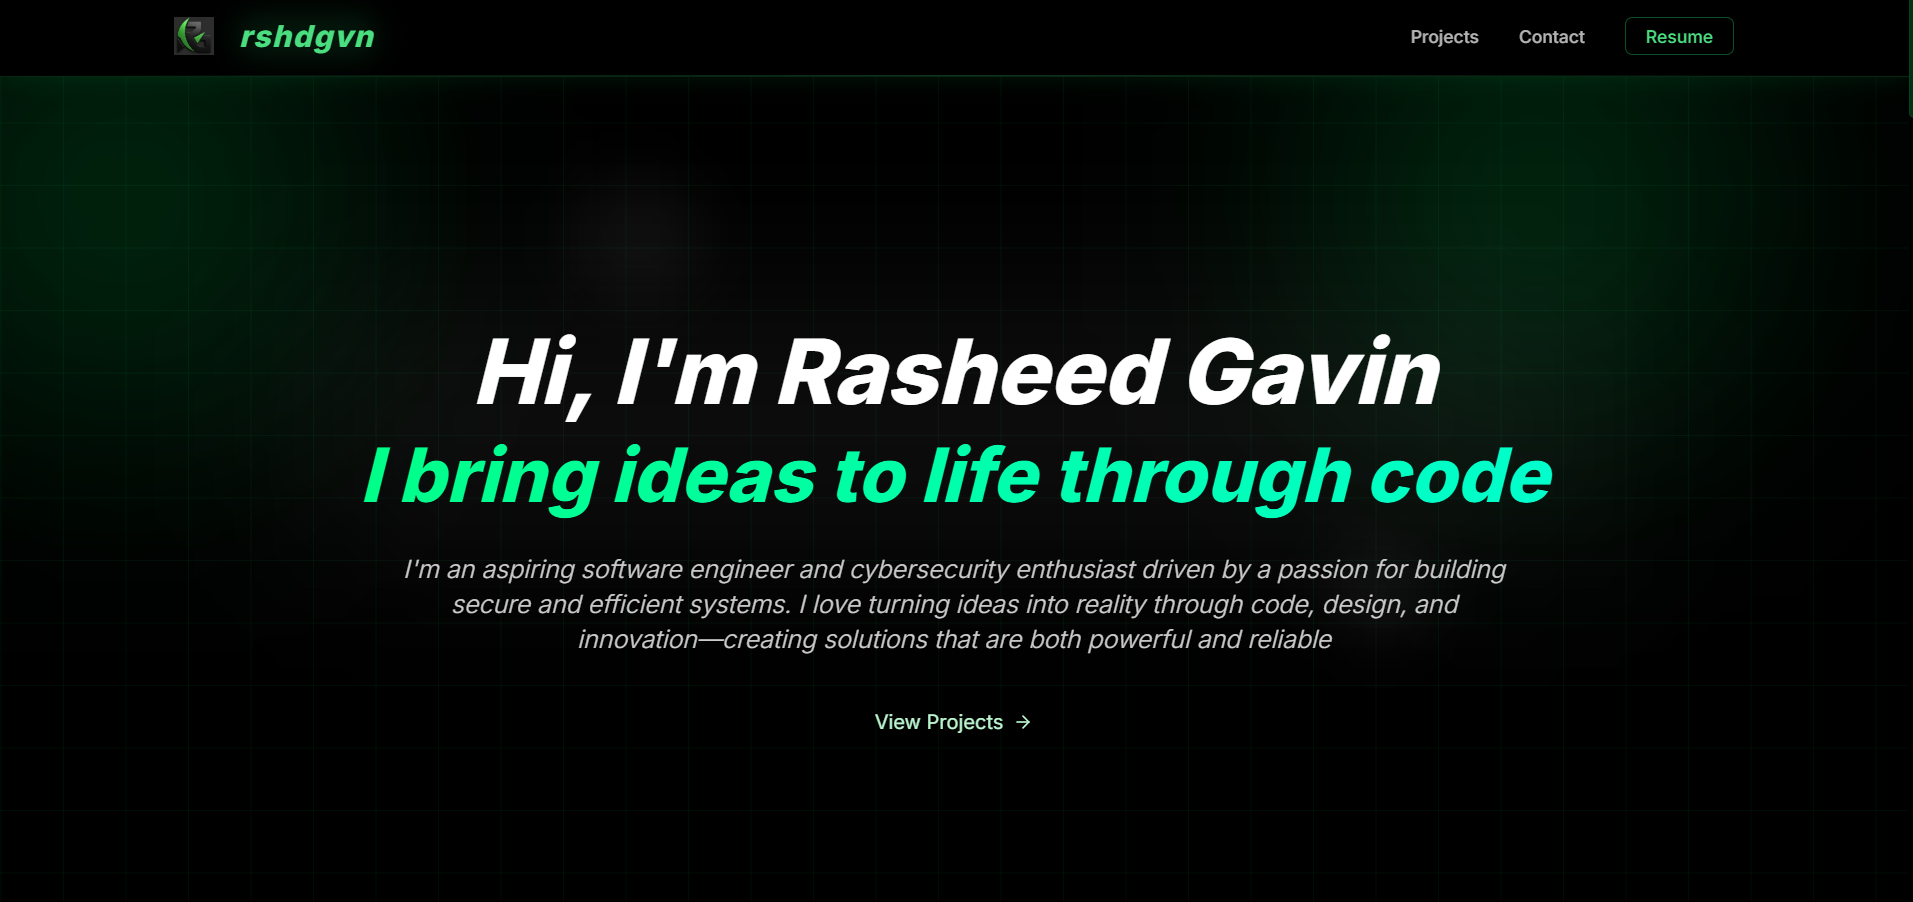
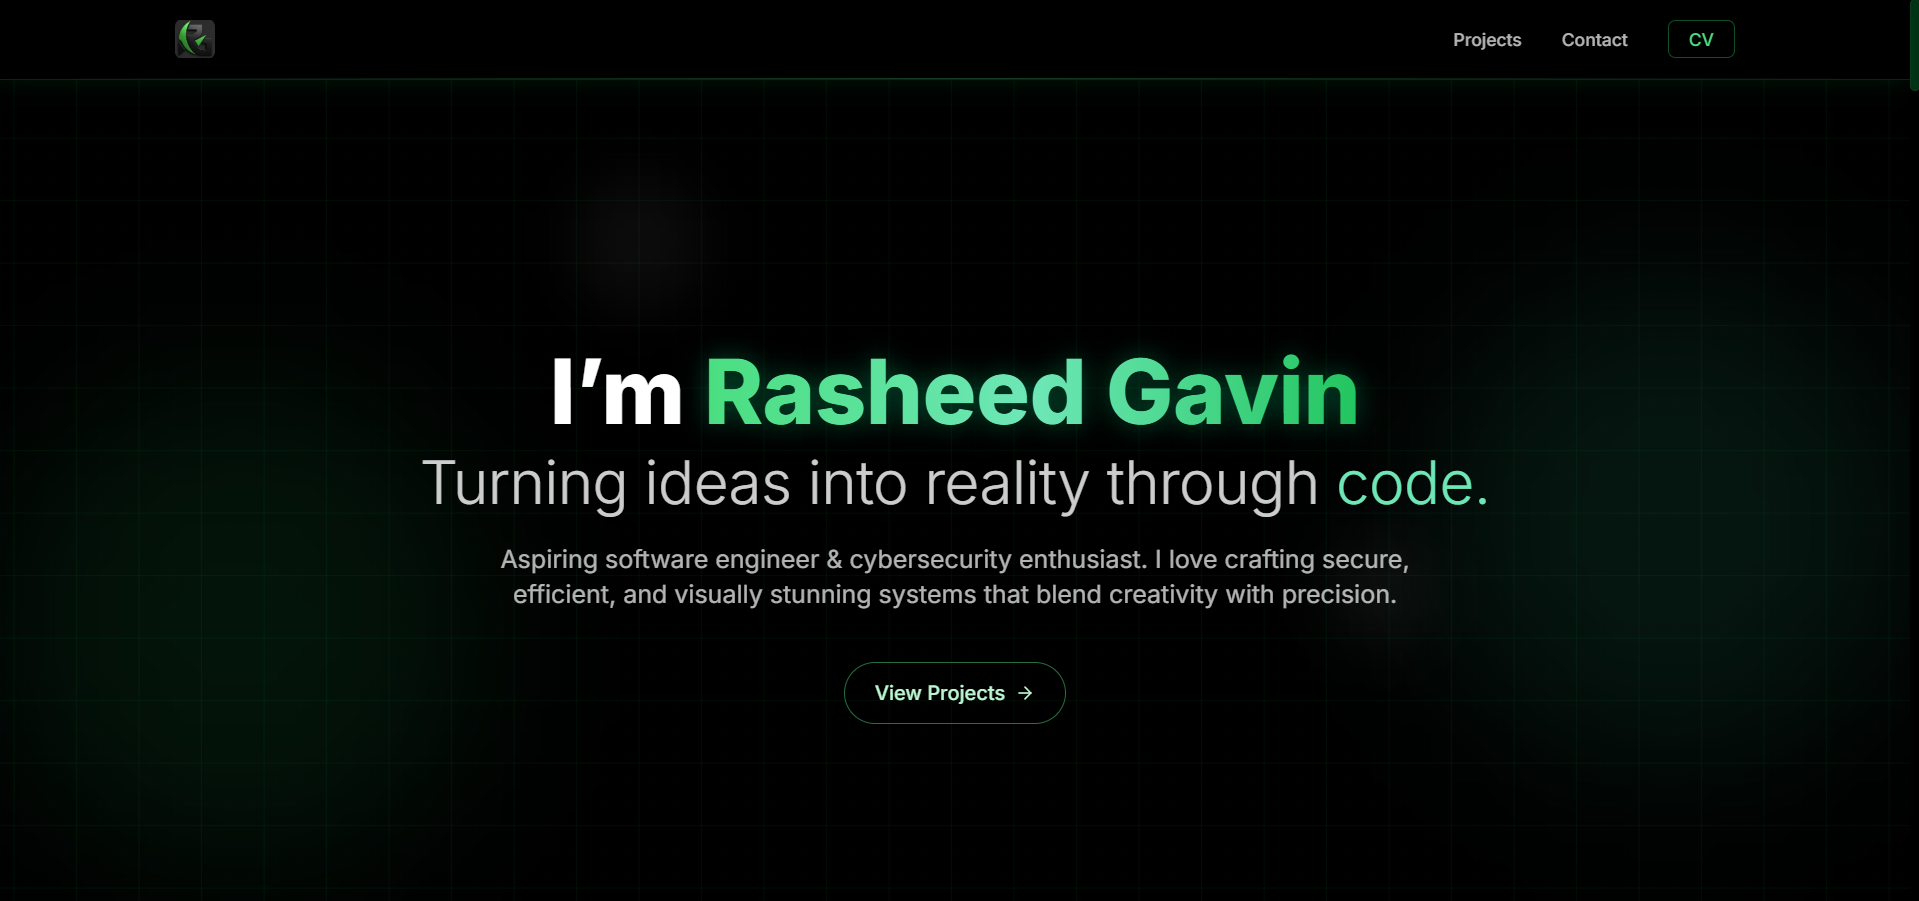
improve some UIs

diff --git a/src/components/HeroSection.jsx b/src/components/HeroSection.jsx
@@ -4,110 +4,75 @@ import { ArrowRight } from "lucide-react";
 
 const HeroSection = () => {
   const textVariants = {
-    hidden: { opacity: 0 },
+    hidden: { opacity: 0, y: 20 },
     visible: (i) => ({
       opacity: 1,
+      y: 0,
       transition: {
-        delay: i * 0.1,
-        duration: 0.8,  
+        delay: i * 0.15,
+        duration: 0.8,
         ease: "easeOut",
       },
     }),
   };
 
   return (
-    <section className="min-h-screen flex flex-col justify-center items-center text-center px-4 py-20 relative overflow-hidden">
-      {/* Premium corner light effects */}
-      <div className="corner-light-premium"></div>
-      <div
-        className="corner-light-premium"
-        style={{ right: 0, left: "auto", transform: "rotate(90deg)" }}
-      ></div>
+    <section className="min-h-screen flex flex-col justify-center px-6 md:px-12 py-24 relative overflow-hidden">
+      {/* Glow orbs */}
+      <div className="absolute top-1/3 left-0 w-96 h-96 bg-green-500/10 blur-3xl rounded-full" />
+      <div className="absolute bottom-1/4 right-0 w-96 h-96 bg-emerald-400/10 blur-3xl rounded-full" />
 
-      {/* Light rays */}
-      <div
-        className="light-ray-premium opacity-30"
-        style={{
-          top: "10%",
-          left: "-10%",
-          width: "80%",
-          transform: "rotate(25deg)",
-        }}
-      ></div>
-      <div
-        className="light-ray-premium opacity-20"
-        style={{
-          top: "30%",
-          left: "-5%",
-          width: "60%",
-          transform: "rotate(15deg)",
-        }}
-      ></div>
-      <div
-        className="light-ray-premium opacity-10"
-        style={{
-          top: "60%",
-          left: "-15%",
-          width: "70%",
-          transform: "rotate(-10deg)",
-        }}
-      ></div>
+      {/* Matrix lines background */}
+      <div className="absolute inset-0 opacity-10 bg-[linear-gradient(180deg,rgba(255,255,255,0.05)_1px,transparent_1px),linear-gradient(90deg,rgba(255,255,255,0.05)_1px,transparent_1px)] bg-[size:20px_20px]" />
 
-      {/* Central premium glow effect */}
-      <div className="absolute w-[800px] h-[800px] rounded-full bg-radial-glow-premium opacity-60 top-1/2 left-1/2 transform -translate-x-1/2 -translate-y-1/2 z-0 animate-glow-pulse"></div>
-
-      <div className="max-w-5xl mx-auto relative z-10">
+      <div className="max-w-5xl mx-auto text-center relative z-10">
         <motion.h1
-          className="hero-heading relative font-extrabold italic mb-6 leading-tight"
-          initial={{ opacity: 0, y: 20 }}
-          animate={{ opacity: 1, y: 0 }}
-          transition={{ duration: 0.8, ease: "easeOut" }}
+          className="font-extrabold leading-tight mb-6 tracking-tight"
+          initial="hidden"
+          animate="visible"
         >
-          <span className="absolute -inset-x-10 -inset-y-6 bg-white/5 rounded-3xl blur-3xl -z-10"></span>
-
           <motion.span
             className="block text-5xl md:text-7xl"
-            initial="hidden"
-            animate="visible"
-            custom={0}
             variants={textVariants}
+            custom={0}
           >
-            Hi, I'm <span className="hero2-text-gradient px-2">Rasheed Gavin</span>
+            I’m{" "}
+            <span className="text-transparent bg-clip-text bg-gradient-to-r from-green-400 via-emerald-300 to-green-500 drop-shadow-[0_0_10px_rgba(0,255,150,0.3)]">
+              Rasheed Gavin
+            </span>
           </motion.span>
 
           <motion.span
-            className="block text-4xl md:text-6xl hero-text-gradient mt-2 p-2"
-            initial="hidden"
-            animate="visible"
-            custom={1}
+            className="block text-3xl md:text-5xl mt-3 text-white/80 font-light"
             variants={textVariants}
+            custom={1}
           >
-            I bring ideas to life through code.
+            Turning ideas into reality through{" "}
+            <span className="text-emerald-300">code.</span>
           </motion.span>
         </motion.h1>
 
         <motion.p
-          className="text-lg md:text-xl font-light text-white/80 mb-10 leading-relaxed max-w-4xl mx-auto"
-          initial={{ opacity: 0, y: 20 }}
+          className="text-lg md:text-xl text-white/70 max-w-3xl mx-auto mb-10 leading-relaxed"
+          initial={{ opacity: 0, y: 15 }}
           animate={{ opacity: 1, y: 0 }}
-          transition={{ duration: 0.8, delay: 0.3, ease: "easeOut" }}
+          transition={{ delay: 0.4, duration: 0.8, ease: "easeOut" }}
         >
-          I'm an aspiring software engineer and cybersecurity enthusiast driven
-          by a passion for building secure and efficient systems. I love turning
-          ideas into reality through code, design, and innovation—creating
-          solutions that are both powerful and reliable
+          Aspiring software engineer & cybersecurity enthusiast. I love crafting
+          secure, efficient, and visually stunning systems that blend creativity
+          with precision.
         </motion.p>
 
         <motion.div
-          initial={{ opacity: 0, y: 20 }}
+          initial={{ opacity: 0, y: 15 }}
           animate={{ opacity: 1, y: 0 }}
-          transition={{ duration: 0.8, delay: 0.6, ease: "easeOut" }}
+          transition={{ delay: 0.6, duration: 0.8, ease: "easeOut" }}
         >
           <a
             href="#projects"
-            className="cta-button-premium group inline-flex items-center gap-2 text-green-200"
+            className="inline-flex items-center gap-2 px-6 py-3 rounded-full border border-green-400/50 text-green-200 hover:bg-green-500/10 transition-all group"
           >
-            <span>View Projects</span>
+            <span className="font-medium">View Projects</span>
             <ArrowRight className="w-4 h-4 group-hover:translate-x-1 transition-transform" />
           </a>
         </motion.div>

diff --git a/src/components/ProjectsSection.jsx b/src/components/ProjectsSection.jsx
@@ -10,7 +10,14 @@ const ProjectsSection = () => {
       title: "LV CIS",
       description:
         "La Verdad Club Integrated System (LV-CIS) helps clubs stay organized. It includes features for tracking attendance, handling membership, and managing event tasks.",
-      techStack: ["Laravel", "React", "TailwindCSS", "XAMPP", "MySQL", "ShadcnUI"],
+      techStack: [
+        "Laravel",
+        "React",
+        "TailwindCSS",
+        "XAMPP",
+        "MySQL",
+        "ShadcnUI",
+      ],
       url: "https://github.com/rshdgvn/LV-CIS",
       image: "projects/LVCIS.png",
     },
@@ -25,6 +32,24 @@ const ProjectsSection = () => {
     },
     {
       id: 3,
+      title: "Quick Chat",
+      description:
+        "A personal project to learn the MERN stack and real-time chat using Socket.IO.",
+      techStack: ["React", "Express", "Node.js", "MongoDB", "Socket.io"],
+      url: "https://rshdgvn.github.io/personal-portfolio/",
+      image: "projects/quick-chat.png",
+    },
+    {
+      id: 4,
+      title: "Finance Tracker",
+      description:
+        "A web app to track income, expenses, and savings, helping users manage their budget and monitor financial goals.",
+      techStack: ["Laravel", "React", "XAMPP", "MySQL", "API"],
+      url: "https://github.com/rshdgvn/quick-chat",
+      image: "projects/finance-tracker.png",
+    },
+    {
+      id: 5,
       title: "PEP-7",
       description:
         "Web app that helps Grade 7 students improve their Filipino vocabulary through games.",
@@ -32,12 +57,13 @@ const ProjectsSection = () => {
       url: "https://github.com/rshdgvn/pep-7",
       image: "projects/pep-7.png",
     },
+
     {
-      id: 4,
+      id: 6,
       title: "AppDates",
       description:
         "Platform that keeps your projects up-to-date and on schedule with a smart, streamlined Kanban board.",
-      techStack:  ["Laravel", "React", "Inertia", "React", "XAMPP", "MySQL"],
+      techStack: ["Laravel", "React", "Inertia", "XAMPP", "MySQL"],
       url: "https://github.com/rshdgvn/app-dates",
       image: "projects/app-dates.png",
     },
